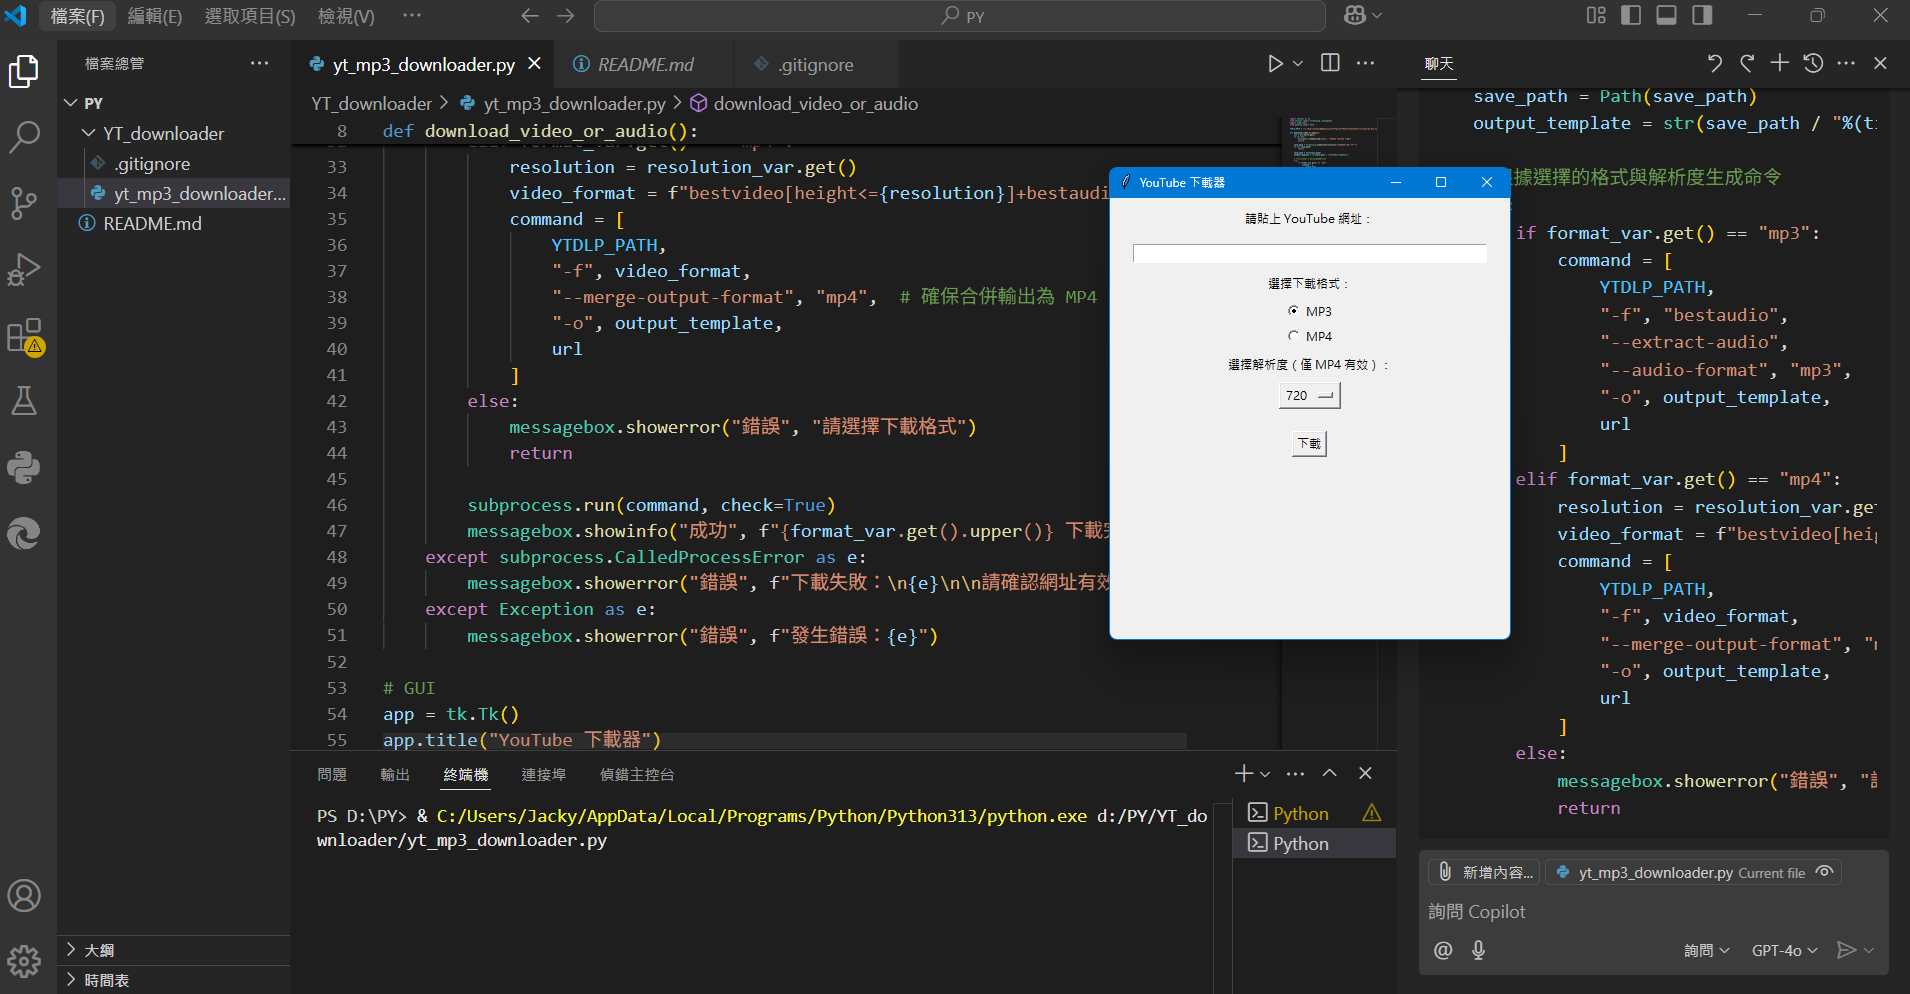
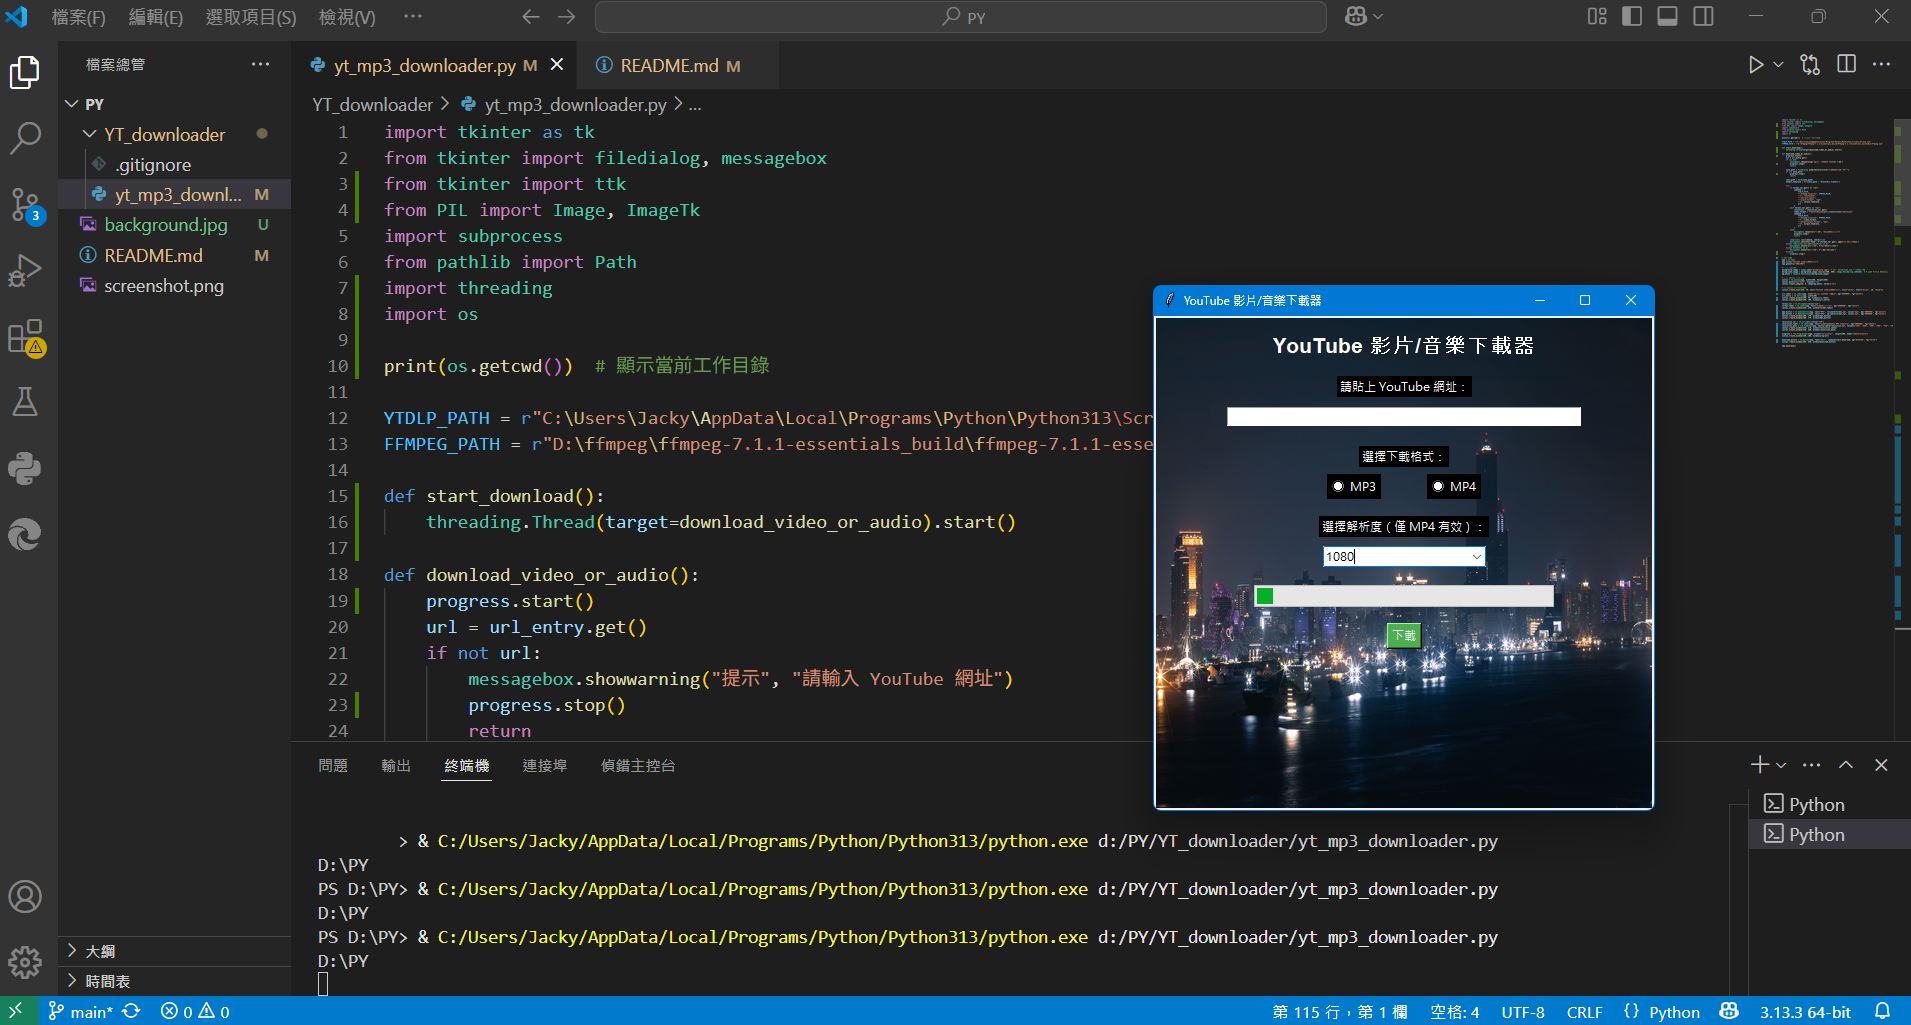
更新 README.md 並新增背景圖片與播放清單下載功能

diff --git a/YT_downloader/yt_mp3_downloader.py b/YT_downloader/yt_mp3_downloader.py
@@ -1,19 +1,31 @@
 import tkinter as tk
 from tkinter import filedialog, messagebox
+from tkinter import ttk
+from PIL import Image, ImageTk
 import subprocess
 from pathlib import Path
+import threading
+import os
+
+print(os.getcwd())  # 顯示當前工作目錄
 
 YTDLP_PATH = r"C:\Users\Jacky\AppData\Local\Programs\Python\Python313\Scripts\yt-dlp.exe"
 FFMPEG_PATH = r"D:\ffmpeg\ffmpeg-7.1.1-essentials_build\ffmpeg-7.1.1-essentials_build\bin\ffmpeg.exe"
 
+def start_download():
+    threading.Thread(target=download_video_or_audio).start()
+
 def download_video_or_audio():
+    progress.start()
     url = url_entry.get()
     if not url:
         messagebox.showwarning("提示", "請輸入 YouTube 網址")
+        progress.stop()
         return
 
     save_path = filedialog.askdirectory(title="選擇要下載的資料夾")
     if not save_path:
+        progress.stop()
         return
 
     save_path = Path(save_path)
@@ -43,6 +55,7 @@ def download_video_or_audio():
             ]
         else:
             messagebox.showerror("錯誤", "請選擇下載格式")
+            progress.stop()
             return
 
         subprocess.run(command, check=True)
@@ -51,27 +64,52 @@ def download_video_or_audio():
         messagebox.showerror("錯誤", f"下載失敗：\n{e}")
     except Exception as e:
         messagebox.showerror("錯誤", f"發生錯誤：{e}")
+    finally:
+        progress.stop()
 
-# GUI
+# GUI 介面
 app = tk.Tk()
-app.title("YouTube 下載器")
-app.geometry("400x250")
+app.title("YouTube 影片/音樂下載器")
+app.geometry("500x500")
 
-tk.Label(app, text="請貼上 YouTube 網址：").pack(pady=10)
+# 加載背景圖片
+background_image = Image.open("background.jpg")  # 確認 background.jpg 放在正確位置
+background_image = background_image.resize((500, 500), Image.Resampling.LANCZOS)  # ← 新版 Pillow 正確寫法
+bg_photo = ImageTk.PhotoImage(background_image)
+
+# 使用 Canvas 顯示背景
+canvas = tk.Canvas(app, width=500, height=500)
+canvas.pack(fill="both", expand=True)
+canvas.create_image(0, 0, image=bg_photo, anchor="nw")
+
+# 在 Canvas 上放其他元件
+canvas.create_text(250, 30, text="YouTube 影片/音樂下載器", fill="white", font=("Arial", 16, "bold"))
+
+url_label = tk.Label(app, text="請貼上 YouTube 網址：", bg="#000000", fg="white")
 url_entry = tk.Entry(app, width=50)
-url_entry.pack(pady=5)
+canvas.create_window(250, 70, window=url_label)
+canvas.create_window(250, 100, window=url_entry)
 
 format_var = tk.StringVar(value="mp3")
-tk.Label(app, text="選擇下載格式：").pack(pady=5)
-tk.Radiobutton(app, text="MP3", variable=format_var, value="mp3").pack()
-tk.Radiobutton(app, text="MP4", variable=format_var, value="mp4").pack()
+format_label = tk.Label(app, text="選擇下載格式：", bg="#000000", fg="white")
+canvas.create_window(250, 140, window=format_label)
+
+mp3_button = tk.Radiobutton(app, text="MP3", variable=format_var, value="mp3", bg="#000000", fg="white")
+mp4_button = tk.Radiobutton(app, text="MP4", variable=format_var, value="mp4", bg="#000000", fg="white")
+canvas.create_window(200, 170, window=mp3_button)
+canvas.create_window(300, 170, window=mp4_button)
 
 resolution_var = tk.StringVar(value="720")
-tk.Label(app, text="選擇解析度（僅 MP4 有效）：").pack(pady=5)
-resolution_menu = tk.OptionMenu(app, resolution_var, "144", "240", "360", "480", "720", "1080")
-resolution_menu.pack()
+resolution_label = tk.Label(app, text="選擇解析度（僅 MP4 有效）：", bg="#000000", fg="white")
+resolution_menu = ttk.Combobox(app, textvariable=resolution_var, values=["144", "240", "360", "480", "720", "1080"])
+canvas.create_window(250, 210, window=resolution_label)
+canvas.create_window(250, 240, window=resolution_menu)
 
-tk.Button(app, text="下載", command=download_video_or_audio).pack(pady=20)
+progress = ttk.Progressbar(app, orient="horizontal", length=300, mode="indeterminate")
+canvas.create_window(250, 280, window=progress)
+
+download_button = tk.Button(app, text="下載", command=start_download, bg="#4CAF50", fg="white")
+canvas.create_window(250, 320, window=download_button)
 
 app.mainloop()
 

diff --git a/README.md b/README.md
@@ -1,7 +1,7 @@
 # YouTube MP3/MP4 Downloader 🎵
 
 A simple and intuitive YouTube audio/video downloader built with Python, Tkinter, and yt-dlp.  
-Supports MP3 audio and MP4 video downloads with resolution selection and custom save paths.  
+Supports MP3 audio and MP4 video downloads with resolution selection, custom save paths, and playlist downloads.  
 Perfect for personal use or educational demonstration.
 
 ---
@@ -42,6 +42,7 @@ When the user selects MP4 format, the system will automatically check whether `f
 - [yt-dlp](https://github.com/yt-dlp/yt-dlp)
 - `subprocess` to call yt-dlp
 - `pathlib` to manage file paths and filenames
+- `Pillow` for handling background images
 
 ---
 
@@ -49,9 +50,11 @@ When the user selects MP4 format, the system will automatically check whether `f
 
 - ✅ MP3 audio download support
 - ✅ MP4 video download with resolution options
+- ✅ Playlist download support (downloads all videos in a playlist)
 - ✅ Custom output folder and filename
 - ✅ Simple GUI interface (no terminal needed)
-- ✅ **Playlist download support** (downloads all videos in a playlist)
+- ✅ Background image for enhanced visual appeal
+- ✅ Progress bar to indicate download status
 
 ---
 
@@ -59,7 +62,7 @@ When the user selects MP4 format, the system will automatically check whether `f
 
 1. Install required Python packages:
    ```bash
-   pip install yt-dlp
+   pip install yt-dlp Pillow
    ```
 2. Run the main script:
    ```bash
@@ -69,6 +72,7 @@ When the user selects MP4 format, the system will automatically check whether `f
    - Paste a YouTube URL  
    - Select download format (MP3 or MP4)
    - If MP4, choose desired resolution (e.g., 720p)
+   - If downloading a playlist, paste the playlist URL
    - Click Download to begin
 
 🖼 Interface Preview  
@@ -82,8 +86,6 @@ Main GUI (YouTube Downloader):
 A full walkthrough demonstrating how to use the YouTube MP3/MP4 downloader, including Git version control and ffmpeg setup:
 
 👉 [Watch on YouTube](https://youtu.be/Pww479_sxQk)
-
----
 
 📄 License  
 This project is licensed under the MIT License.  
